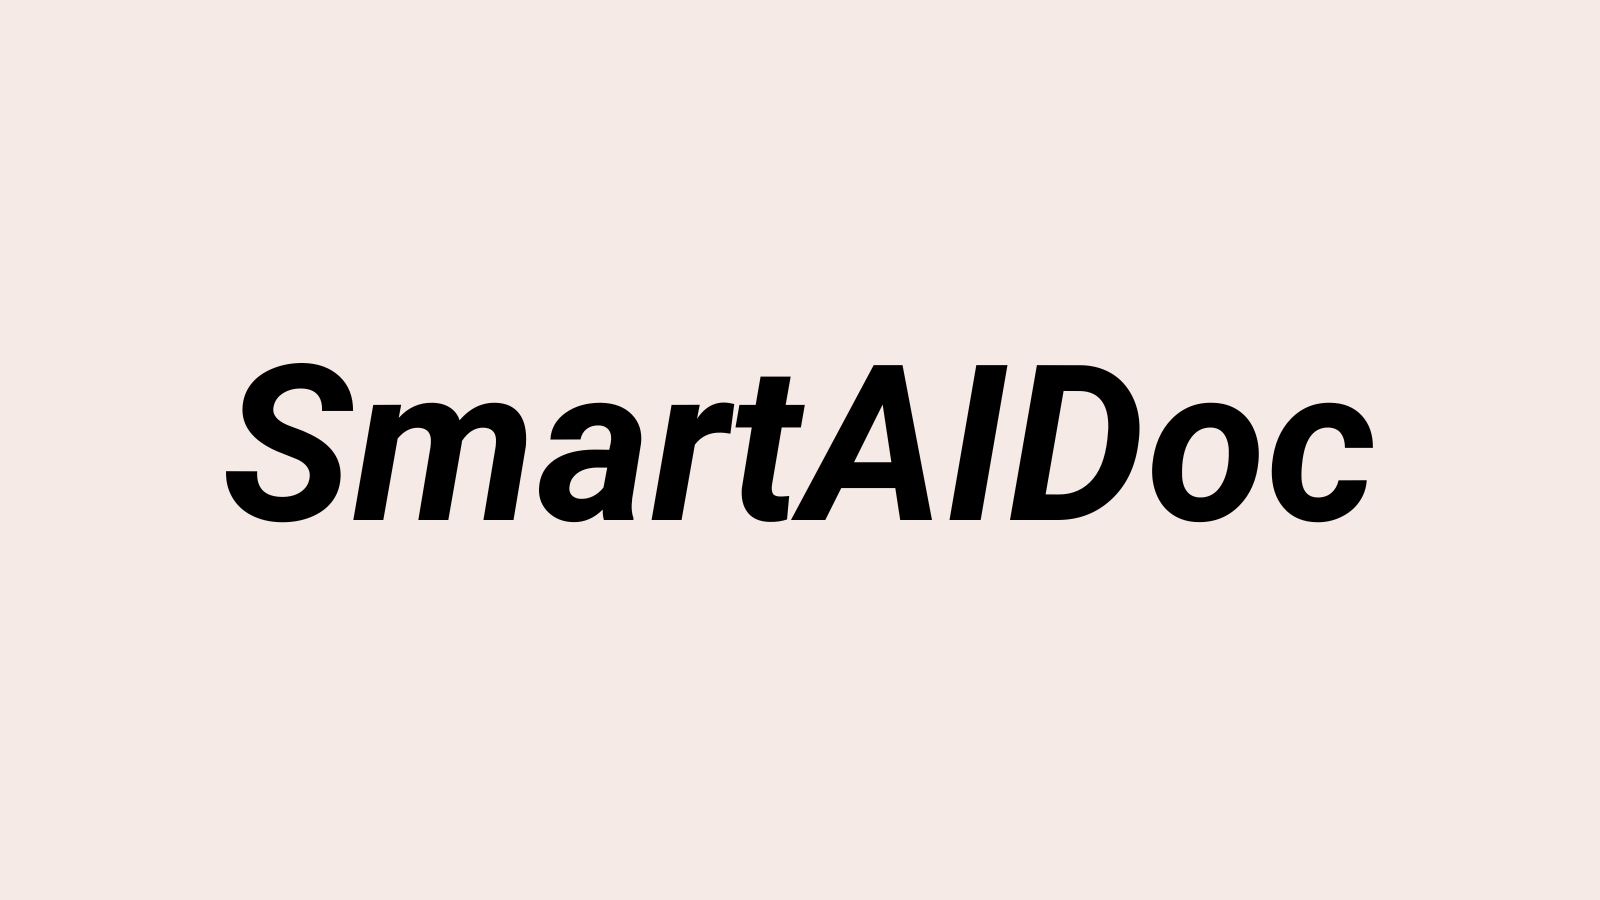
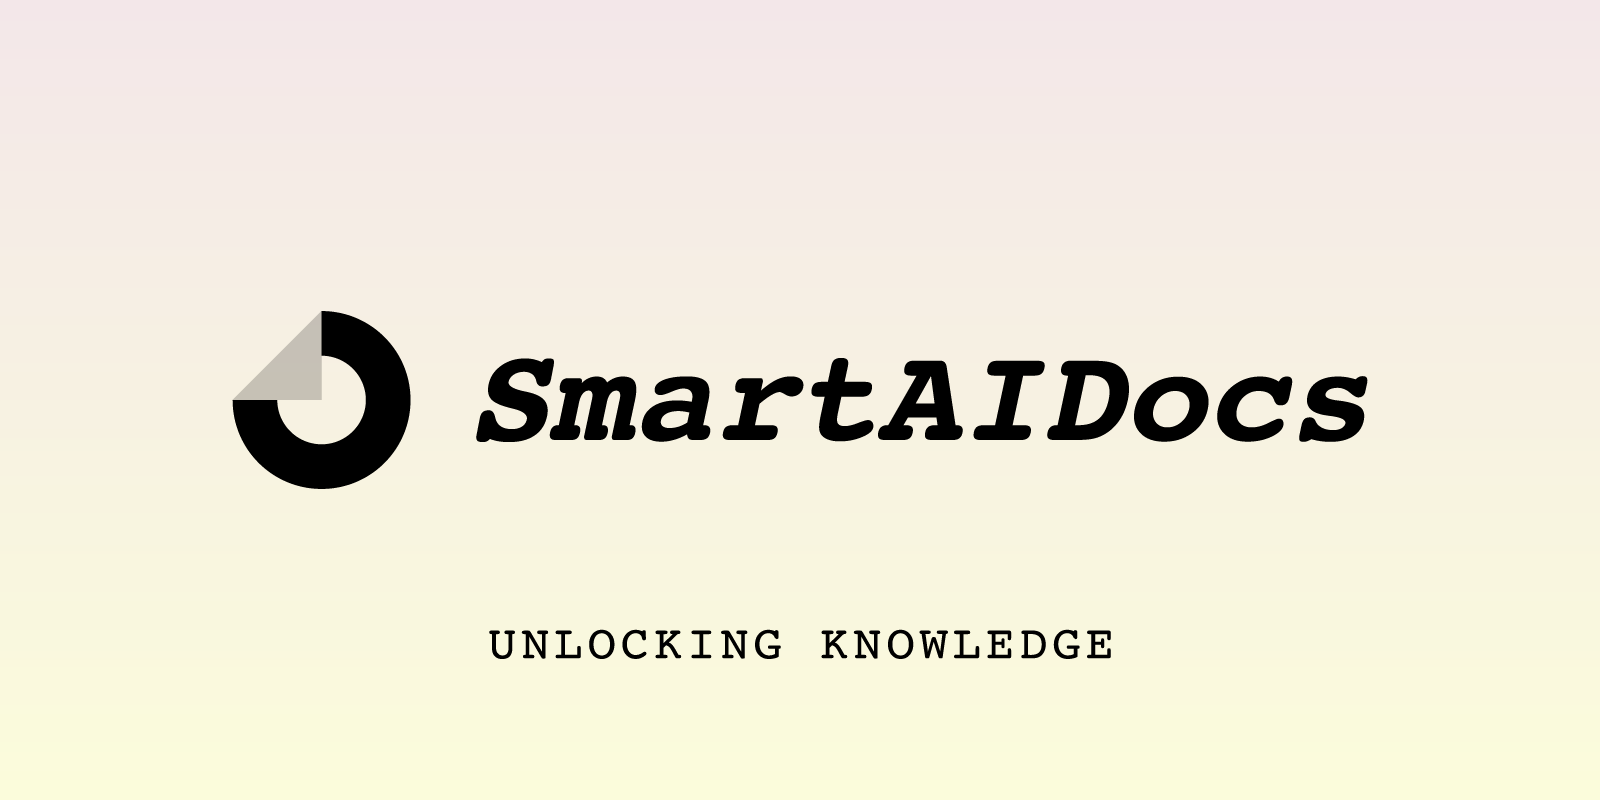
meta images added

Changed region(s): [[0.125, 0.375, 0.875, 0.625], [0.3125, 0.7812, 0.7188, 0.8438]]

diff --git a/src/components/NavBar.jsx b/src/components/NavBar.jsx
@@ -10,6 +10,7 @@ import APIClient from "@/lib/axiosInterceptor";
 import jwt from "jsonwebtoken";
 import axios from "axios";
 import FormData from "form-data";
+import Image from "next/image";
 
 const NavBar = () => {
   const baseUrl = process.env.NEXT_PUBLIC_API_BASS_URL;
@@ -262,13 +263,25 @@ const NavBar = () => {
         className="d-none d-md-flex"
       >
         <div>
-          <Link href="/" className="text-decoration-none text-black">
+          <Link href="/" className="text-decoration-none text-black d-flex">
+            <div>
+              <Image
+                src={"/logo.svg"}
+                width={30}
+                height={30}
+                alt="desktop logo"
+              />
+            </div>
             <span
               style={{
                 fontSize: "22px",
                 fontWeight: "700",
-                lineHeight: "20px",
                 fontStyle: "italic",
+                fontFamily: "Courier Prime",
+                display: "flex",
+                alignItems: "center",
+                flexWrap: "wrap",
+                marginLeft: "5px",
               }}
             >
               SmartAIDoc
@@ -431,16 +444,28 @@ const NavBar = () => {
           ref={menuRef}
         >
           <div>
-            <Link href={"/"} className="text-decoration-none text-black">
+            <Link href={"/"} className="text-decoration-none text-black d-flex">
+              <div>
+                <Image
+                  src={"/logo.svg"}
+                  width={30}
+                  height={30}
+                  alt="desktop logo"
+                />
+              </div>
               <span
                 style={{
                   fontSize: "22px",
                   fontWeight: "700",
-                  lineHeight: "20px",
                   fontStyle: "italic",
+                  fontFamily: "Courier Prime",
+                  display: "flex",
+                  alignItems: "center",
+                  flexWrap: "wrap",
+                  marginLeft: "5px",
                 }}
               >
-                SmarAIDoc
+                SmartAIDoc
               </span>
             </Link>
 

diff --git a/src/components/Footer.jsx b/src/components/Footer.jsx
@@ -40,7 +40,7 @@ const Footer = () => {
             FAQ
           </Link>
           <Link
-            href="/privacy-policy"
+            href="/"
             style={{
               marginRight: "25px",
               textDecoration: "none",
@@ -51,7 +51,7 @@ const Footer = () => {
             Privacy Policy
           </Link>
           <Link
-            href="/privacy-policy"
+            href="/"
             style={{
               marginRight: "25px",
               textDecoration: "none",

diff --git a/src/app/globals.css b/src/app/globals.css
@@ -1,5 +1,7 @@
 @import url("https://fonts.googleapis.com/css2?family=Roboto+Mono:ital,wght@0,100;0,200;0,300;0,400;0,500;0,600;0,700;1,100;1,200;1,300;1,400;1,500;1,600;1,700&display=swap");
 
+@import url('https://fonts.googleapis.com/css2?family=Courier+Prime:wght@700&family=Quicksand:wght@300;400;500;600;700&display=swap');
+
 * {
   box-sizing: border-box;
   padding: 0;
